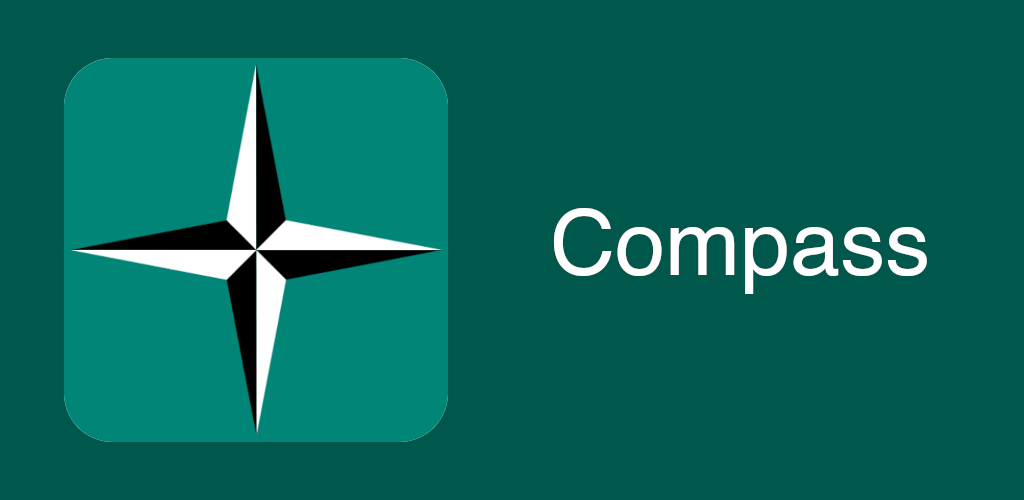
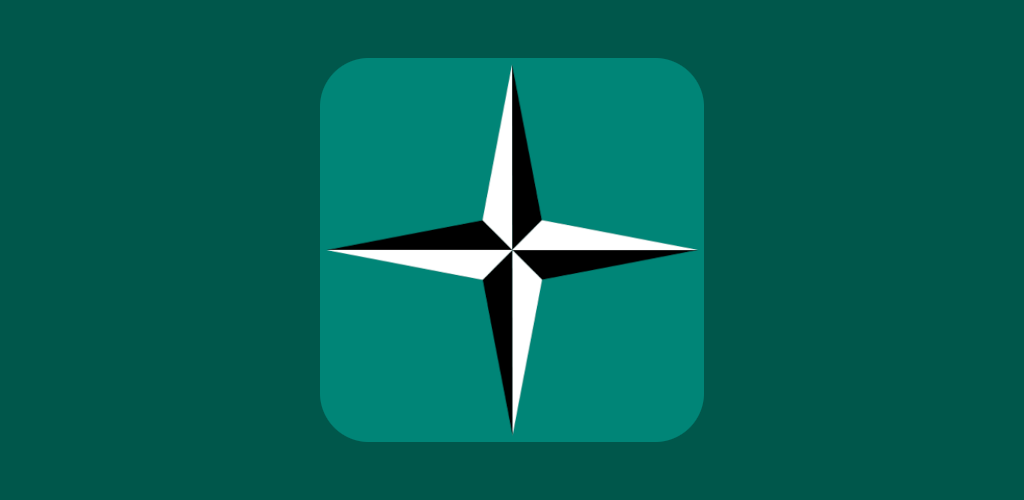
Use ratio utility for card images instead of fixed height
Replace the fixed 180px CSS height with Bootstrap's ratio ratio-16x9
wrapper, so card images scale proportionally at any screen width.

diff --git a/docs/index.html b/docs/index.html
@@ -28,12 +28,6 @@
     if (saved) document.documentElement.setAttribute('data-bs-theme', saved);
   </script>
 
-  <style>
-    img.card-img-top {
-      height: 180px;
-    }
-  </style>
-
   <!--
    ___  ___  _______   ___       ___       ________          _________  ___  ___  _______   ________  _______
   |\  \|\  \|\  ___ \ |\  \     |\  \     |\   __  \        |\___   ___\\  \|\  \|\  ___ \ |\   __  \|\  ___ \
@@ -101,13 +95,15 @@
 
         <div class="col">
           <div class="card shadow">
-            <img src="img/oss-licenses-parser.png"
-                 width="1078"
-                 height="691"
-                 class="card-img-top object-fit-cover"
-                 loading="lazy"
-                 style="object-position: left top"
-                 alt="OssLicensesParser">
+            <div class="ratio ratio-16x9 card-img-top overflow-hidden">
+              <img src="img/oss-licenses-parser.png"
+                   width="1078"
+                   height="691"
+                   class="object-fit-cover"
+                   loading="lazy"
+                   style="object-position: left top"
+                   alt="OssLicensesParser">
+            </div>
             <div class="card-body">
               <h5 class="card-title">OssLicensesParser</h5>
               <p class="card-text">
@@ -132,13 +128,15 @@
 
         <div class="col">
           <div class="card shadow">
-            <img src="img/metronome.png"
-                 width="1024"
-                 height="500"
-                 class="card-img-top object-fit-cover"
-                 loading="lazy"
-                 style="object-position: left center"
-                 alt="Metronom">
+            <div class="ratio ratio-16x9 card-img-top overflow-hidden">
+              <img src="img/metronome.png"
+                   width="1024"
+                   height="500"
+                   class="object-fit-cover"
+                   loading="lazy"
+                   style="object-position: center center"
+                   alt="Metronom">
+            </div>
             <div class="card-body">
               <h5 class="card-title">Android Metronom</h5>
               <p class="card-text">
@@ -170,13 +168,15 @@
 
         <div class="col">
           <div class="card shadow">
-            <img src="img/spring-kerberos-demo.png"
-                 width="610"
-                 height="223"
-                 class="card-img-top object-fit-cover"
-                 loading="lazy"
-                 style="object-position: left top"
-                 alt="Spring Kerberos Demo">
+            <div class="ratio ratio-16x9 card-img-top overflow-hidden">
+              <img src="img/spring-kerberos-demo.png"
+                   width="610"
+                   height="223"
+                   class="object-fit-cover"
+                   loading="lazy"
+                   style="object-position: left top"
+                   alt="Spring Kerberos Demo">
+            </div>
             <div class="card-body">
               <h5 class="card-title">Spring Kerberos Demo</h5>
               <p class="card-text">
@@ -196,13 +196,15 @@
 
         <div class="col">
           <div class="card shadow">
-            <img src="img/compass.png"
-                 width="1024"
-                 height="500"
-                 class="card-img-top object-fit-cover"
-                 loading="lazy"
-                 style="object-position: left center"
-                 alt="Kompass">
+            <div class="ratio ratio-16x9 card-img-top overflow-hidden">
+              <img src="img/compass.png"
+                   width="1024"
+                   height="500"
+                   class="object-fit-cover"
+                   loading="lazy"
+                   style="object-position: center center"
+                   alt="Kompass">
+            </div>
             <div class="card-body">
               <h5 class="card-title">Android Kompass</h5>
               <p class="card-text">
@@ -235,13 +237,15 @@
 
         <div class="col">
           <div class="card shadow">
-            <img src="img/spring-storage-service.png"
-                 width="992"
-                 height="402"
-                 class="card-img-top object-fit-cover"
-                 loading="lazy"
-                 style="object-position: left top"
-                 alt="Spring Storage Service">
+            <div class="ratio ratio-16x9 card-img-top overflow-hidden">
+              <img src="img/spring-storage-service.png"
+                   width="992"
+                   height="402"
+                   class="object-fit-cover"
+                   loading="lazy"
+                   style="object-position: left top"
+                   alt="Spring Storage Service">
+            </div>
             <div class="card-body">
               <h5 class="card-title">Spring Storage Service</h5>
               <p class="card-text">
@@ -261,13 +265,15 @@
 
         <div class="col">
           <div class="card shadow">
-            <img src="img/spring-liquibase.png"
-                 width="833"
-                 height="423"
-                 class="card-img-top object-fit-cover"
-                 loading="lazy"
-                 style="object-position: left top"
-                 alt="Spring Liquibase Demo">
+            <div class="ratio ratio-16x9 card-img-top overflow-hidden">
+              <img src="img/spring-liquibase.png"
+                   width="833"
+                   height="423"
+                   class="object-fit-cover"
+                   loading="lazy"
+                   style="object-position: left top"
+                   alt="Spring Liquibase Demo">
+            </div>
             <div class="card-body">
               <h5 class="card-title">Spring Liquibase Demo</h5>
               <p class="card-text">
@@ -287,13 +293,15 @@
 
         <div class="col">
           <div class="card shadow">
-            <img src="img/json-view-websocket-demo.png"
-                 width="610"
-                 height="269"
-                 class="card-img-top object-fit-cover"
-                 loading="lazy"
-                 style="object-position: left top"
-                 alt="Json View Websocket Demo">
+            <div class="ratio ratio-16x9 card-img-top overflow-hidden">
+              <img src="img/json-view-websocket-demo.png"
+                   width="610"
+                   height="269"
+                   class="object-fit-cover"
+                   loading="lazy"
+                   style="object-position: left top"
+                   alt="Json View Websocket Demo">
+            </div>
             <div class="card-body">
               <h5 class="card-title">JSON Views & Spring WebSocket</h5>
               <p class="card-text">
@@ -313,13 +321,15 @@
 
         <div class="col">
           <div class="card shadow">
-            <img src="img/bachelor-arbeit.png"
-                 width="596"
-                 height="281"
-                 class="card-img-top object-fit-cover"
-                 loading="lazy"
-                 style="object-position: left center"
-                 alt="Bachelorarbeit">
+            <div class="ratio ratio-16x9 card-img-top overflow-hidden">
+              <img src="img/bachelor-arbeit.png"
+                   width="596"
+                   height="281"
+                   class="object-fit-cover"
+                   loading="lazy"
+                   style="object-position: left center"
+                   alt="Bachelorarbeit">
+            </div>
             <div class="card-body">
               <h5 class="card-title">Bachelorarbeit</h5>
               <p class="card-text">
@@ -341,13 +351,15 @@
 
         <div class="col">
           <div class="card shadow">
-            <img src="img/bitmap-font.png"
-                 width="470"
-                 height="352"
-                 class="card-img-top object-fit-cover"
-                 loading="lazy"
-                 style="object-position: center top"
-                 alt="Bitmap Font">
+            <div class="ratio ratio-16x9 card-img-top overflow-hidden">
+              <img src="img/bitmap-font.png"
+                   width="470"
+                   height="352"
+                   class="object-fit-cover"
+                   loading="lazy"
+                   style="object-position: center top"
+                   alt="Bitmap Font">
+            </div>
             <div class="card-body">
               <h5 class="card-title">Bitmap Font Library</h5>
               <p class="card-text">
@@ -368,13 +380,15 @@
 
         <div class="col">
           <div class="card shadow">
-            <img src="img/space-invaders.png"
-                 width="494"
-                 height="371"
-                 class="card-img-top object-fit-cover"
-                 loading="lazy"
-                 style="object-position: center top"
-                 alt="Space Invaders">
+            <div class="ratio ratio-16x9 card-img-top overflow-hidden">
+              <img src="img/space-invaders.png"
+                   width="494"
+                   height="371"
+                   class="object-fit-cover"
+                   loading="lazy"
+                   style="object-position: center top"
+                   alt="Space Invaders">
+            </div>
             <div class="card-body">
               <h5 class="card-title">Space Invaders</h5>
               <p class="card-text">